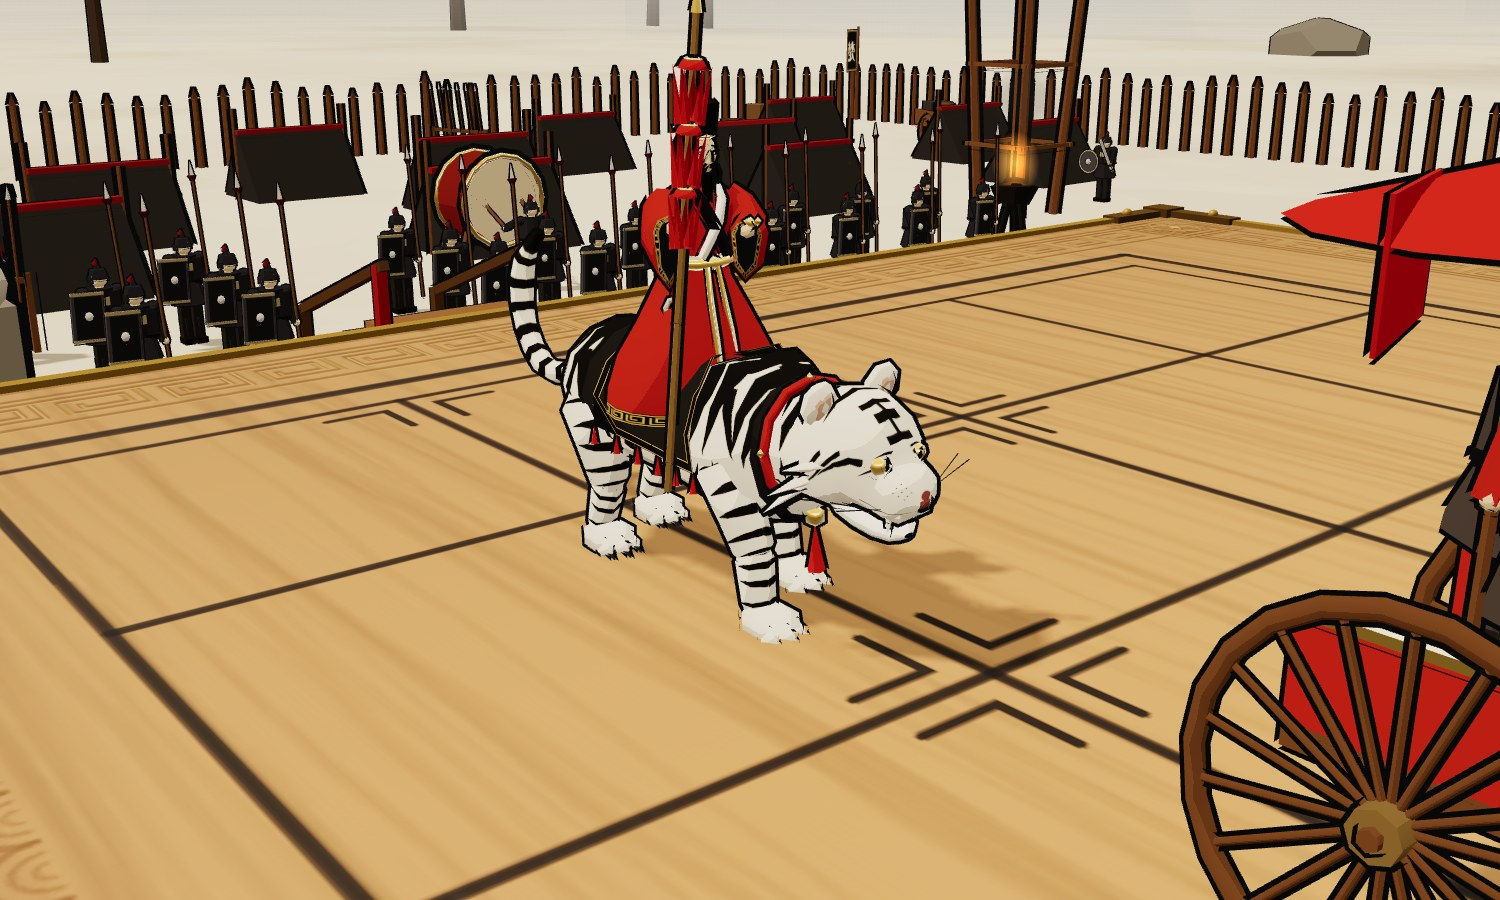
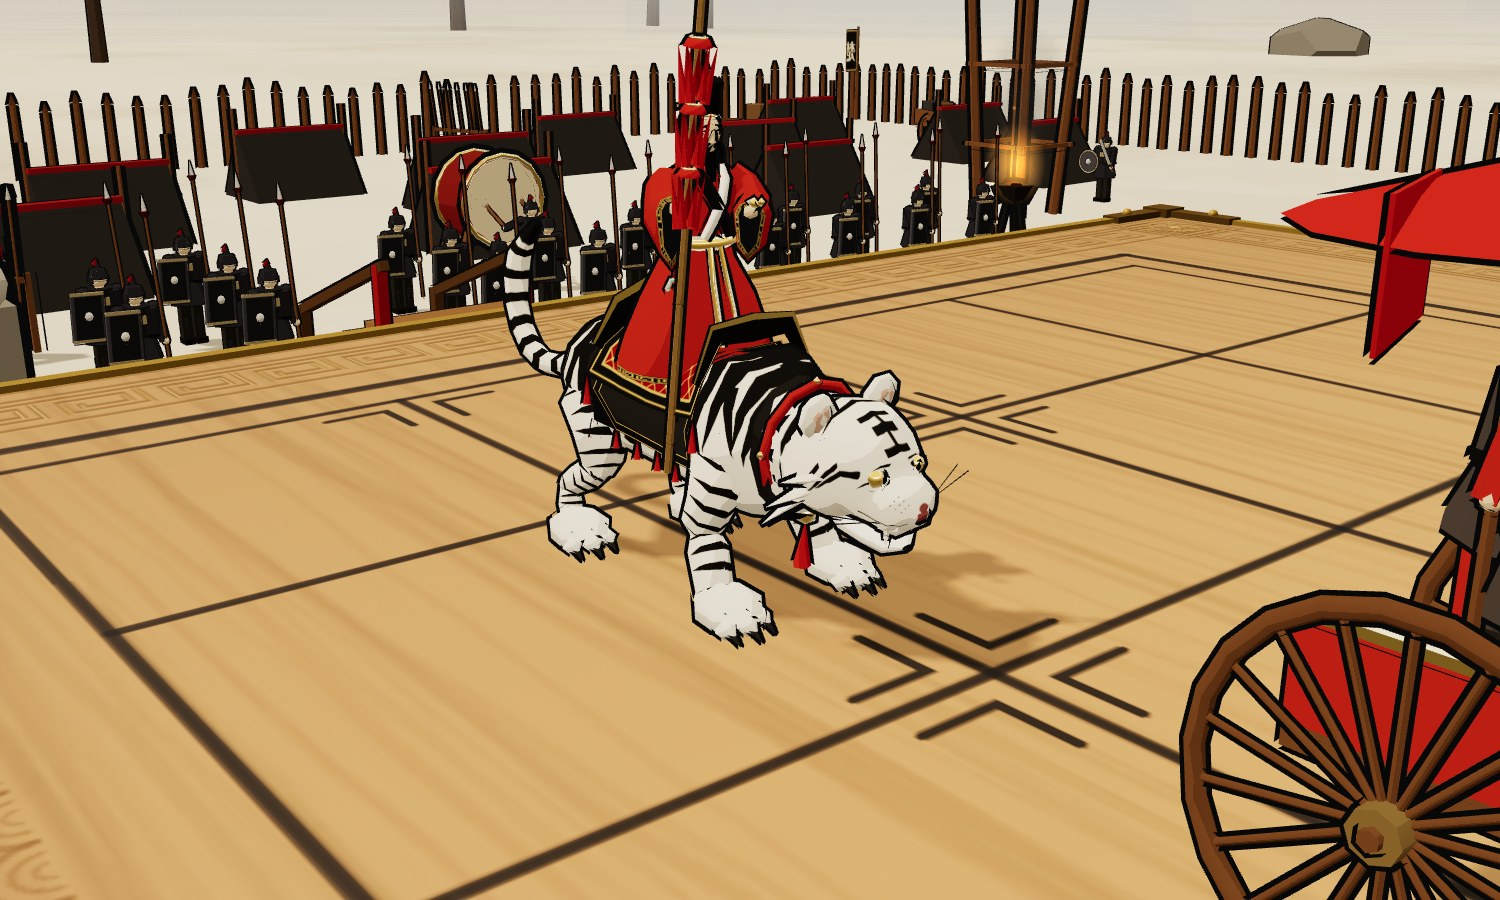
交付单 M2：虎骑新站姿（后腿三段）、动作重做、四级金甲和金杖、鞍座——Ham 已在审批台逐件通过
模型文件 source/src/tiger.js 与上一个「进度：」存档相同，这次补上六张标准图和交付单。
面数（不含描边）：普通款 4,090，四级 5,320；低画质 2,154 / 2,738。

Claude-Session: https://claude.ai/code/session_01NcqhjTJxdTrUxQtViN2iri

Changed region(s): [[0.3373, 0.0, 0.644, 0.7156], [0.644, 0.1244, 0.7053, 0.2178]]

diff --git a/source/docs/collab/model-to-main.md b/source/docs/collab/model-to-main.md
@@ -2,6 +2,36 @@
 
 最新的在最上面，编号接着往下排（M1、M2…）。格式见同目录 `MODEL-WORKFLOW.md` 第 6 节。TD 用 `git show origin/model-lab:source/docs/collab/model-to-main.md` 看。
 
+## M2 · 10-05 · 交付
+
+- 提交：model-lab 上带这张交付单的那次提交（模型文件和 `进度：` 存档 4958898 相同，这次加了图和交付单）
+- Ham 确认：10-05 16:24 在审批台上逐件点的。通过：新站姿和腿、四个动作、四级金甲、四级鞍座、普通款鞍座。画质档选的是“高、中 4 千档，低 2 千档”。四级权杖他在聊天里选了“金节杖带红旄”。
+- 改了什么：
+  1. **站姿和腿**（Ham 嫌原来的腿怪，给了幽灵虎做参考）：后腿从两段改成三段（大腿、小腿、跗骨），四肢往外撑开，脚掌放大，头压得比肩低。
+  2. **动作跟着重做**：不再写死关节角，只给四只脚踝的落点，关节角反解。行走、扑击、咆哮、倒地都换了。
+  3. **四级金装**（Ham 的要求：文臣衣冠不变、手持金色权杖、老虎身披金甲）：颈甲、肩甲、当胸、搭后，鱼鳞式札甲、有厚度；额带、红缨、当卢、四只金镯；节杖整根鎏金、红旄保留。**你临时配的那套（文臣衣缘和大带换金）已经去掉。**
+  4. **鞍座**（新加的）：普通款是朱锦褥加前后黑漆鞍桥；四级是宝座式，后鞍桥升成一面尖拱靠背。文臣因此坐高了 0.1。
+- 改了哪些文件：`source/src/tiger.js`、`source/docs/collab/model-shots/` 六张图（旧的 `walk.jpg` 删了，并进了 `acts.jpg`）、本文件。
+- 入口有没有变：没变。`TigerHD.make(side, { gold })`，`speed / pounceK / roarK / dead / deadSide` 含义不变，`QLOD = { high: 2, mid: 2, low: 4 }` 不变。
+  - 返回对象的 `legs[i]` 多了 `hock`（后腿的跗骨组，前腿是 `null`）。关节组的名字多了 `hock2`、`hock3`。你那边没有直接动腿的话不用改。
+  - `TigerHD.POSE` 没有了，换成 `TigerHD.STANCE`（脚踝落点）。`makeProwl(side, { lod, gold })` 还在。
+- 数据（含描边，`modelshot.py` 高、中各跑了一次）：
+  - 普通款：高 7,812 面 · 中 7,812 面 · 低 4,248 面 · 首次构建 100～130 毫秒 · 克隆 1～3 毫秒 · 网格 64（低 58）· 贴图 9 张。
+  - 四级金装：高、中 10,056 面 · 低 5,264 面 · 网格 68（低 66）· 贴图 10 张（到上限了）。
+  - 不含描边：普通款 4,090 / 2,154，四级 5,320 / 2,738。模型模式整盘：高 723,424，中 657,216。
+- 动作：speed ✓  pounceK ✓  roarK ✓  dead ✓
+  - 已知问题和 M1 一样：行走只看过抽帧，没在真实行军速度下看过连续画面，步频没有和小队的移动速度锁死，可能有轻微滑步。Ham 在审批台上是看着这条说明点的通过。
+- 需要 TD 做的：
+  1. （M1 提过，还没做）`squads.js` 的 `TigerRider`：低画质也用 `TigerHD.make`，缩放 0.27。接好后 `Models.makeTigerRider` 可以删。
+  2. （M1 提过）倒地时文臣和节杖倒向 `deadSide` 一侧，节杖尖伸出去不到一格，请让 `deadSide` 取旁边没有子的一侧。
+  3. 在对局里把行军、吃子、被吃走一遍，看有没有滑步、穿地；有的话告诉我，我来调。
+  4. 站姿变宽了：四只脚踝在身体两侧各 0.5（乘 0.27 后约 0.135）。三级起两侧的弩手现在站在 ±0.4，应该不挡，请顺手看一眼。
+  5. 四级的靠背比文臣的腰略低，节杖仍是全身最高点，模型模式的背旗位置应该不受影响，也请看一眼。
+  6. `UNIT-LOOKS.md` 3.4 节请改：四级不再是“只换饰边、虎本身不变”，而是上面第 3、4 条；普通款多了鞍座。`MODEL-WORKFLOW.md` 第 5 节“现在的虎骑”那一列和关于 `LQ` 的说明也过时了。
+- 新用到的颜色（表里没有的）：甲片的暗线 `#5a3f12`、锦褥的暗朱 `#6a140c`、联珠的高光 `#fff6d8`。玉用的是文臣玉佩原有的 `0xa8c8ae`。
+- 想让 Ham 定的：无。
+- 图：`model-shots/` 六张。`side.jpg`、`front34.jpg`、`line_play.jpg`、`rank.jpg` 是这次用 `modelshot.py` 高画质出的；`acts.jpg`（行走四帧 + 扑击、咆哮、伏下、倒地）和 `gold.jpg`（四级六个角度）是 Ham 在审批台上看的原图缩小的。`line_play.jpg`、`rank.jpg` 这两张 Ham 这轮没看过，模型和他批的是同一个。
+
 ## M1 · 10-05 · 交付
 
 - 提交：model-lab @ f383857
